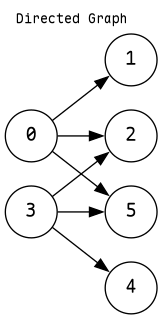
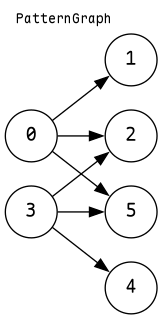
Fix position of model images in README.md

Changed region(s): [[0.0926, 0.0282, 0.8025, 0.0846]]

diff --git a/README.md b/README.md
@@ -319,6 +319,8 @@ show(model)
   <img alt="PatternGraph visualisation" src="docs/images/patterngraph.png">
 </picture>
 
+<br>
+
 <picture>
   <source media="(prefers-color-scheme: dark)" srcset="docs/images/patterntree-dark.svg">
   <source media="(prefers-color-scheme: light)" srcset="docs/images/patterntree.svg">